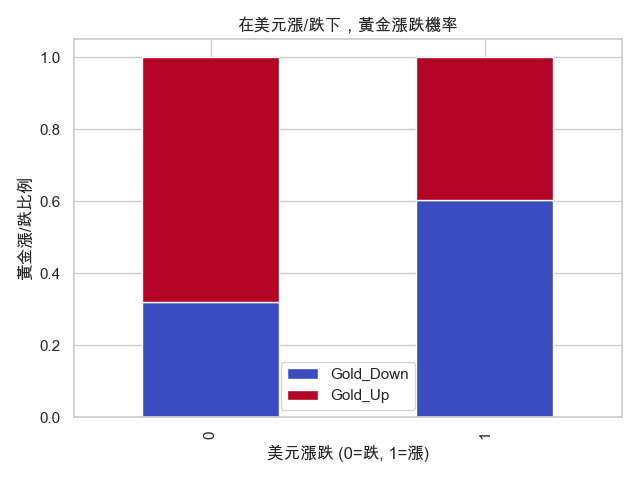
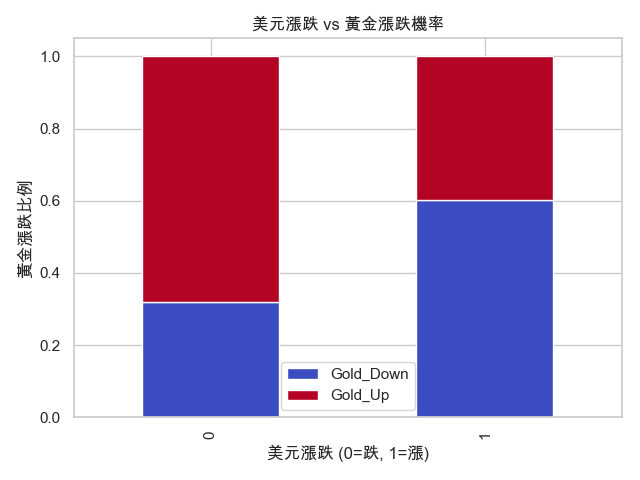
update

diff --git a/gold/gold_usd_twd_macd_analysis2.py b/gold/gold_usd_twd_macd_analysis2.py
@@ -1,0 +1,146 @@
+# gold_usd_twd_analysis.py
+# 2025/06/11 - 含 RSI & MACD 技術指標，Logistic & Random Forest 模型
+
+import yfinance as yf
+import pandas as pd
+import numpy as np
+import matplotlib.pyplot as plt
+import seaborn as sns
+import os
+import platform
+from sklearn.linear_model import LogisticRegression
+from sklearn.ensemble import RandomForestClassifier
+from sklearn.model_selection import train_test_split
+from sklearn.metrics import accuracy_score, classification_report
+
+sns.set(style="whitegrid")
+
+# ✅ 字體設定（支援跨平台中文）
+if platform.system() == 'Darwin':
+    plt.rcParams['font.family'] = ['Arial Unicode MS']
+elif platform.system() == 'Windows':
+    plt.rcParams['font.family'] = ['Microsoft JhengHei']
+else:
+    plt.rcParams['font.family'] = ['Noto Sans CJK TC']
+
+plt.rcParams['axes.unicode_minus'] = False
+
+# ✅ Step 1: 下載資料
+print("✅ Step 1: 資料下載")
+gold = yf.download("GC=F", start="2018-01-01", end="2024-12-31")
+dxy = yf.download("UUP", start="2018-01-01", end="2024-12-31")
+usd_twd = pd.read_csv("./gold/usd_twd.csv", parse_dates=["Date"])
+usd_twd.set_index("Date", inplace=True)
+
+if gold.empty or dxy.empty:
+    raise Exception("❌ 金價或美元 ETF（UUP）資料下載失敗")
+
+# ✅ Step 2: 合併資料
+print("✅ Step 2: 整合數據")
+df = pd.DataFrame({
+    "Gold": gold["Close"].squeeze(),
+    "DXY": dxy["Close"].squeeze(),
+    "USD_TWD": usd_twd["USD_TWD"].squeeze()
+}).dropna()
+
+# ✅ Step 3: 計算報酬率
+returns = df.pct_change().dropna()
+
+# ✅ Step 4: 加入技術指標 RSI
+print("✅ Step 4: RSI 指標計算")
+delta = df["Gold"].diff()
+gain = (delta.where(delta > 0, 0)).rolling(14).mean()
+loss = (-delta.where(delta < 0, 0)).rolling(14).mean()
+rs = gain / loss
+df["RSI"] = 100 - (100 / (1 + rs))
+
+# ✅ Step 5: 加入技術指標 MACD
+print("✅ Step 5: MACD 指標計算")
+ema12 = df["Gold"].ewm(span=12, adjust=False).mean()
+ema26 = df["Gold"].ewm(span=26, adjust=False).mean()
+df["MACD"] = ema12 - ema26
+df["MACD_signal"] = df["MACD"].ewm(span=9, adjust=False).mean()
+
+# ✅ Step 6: 散佈圖
+plt.figure(figsize=(8,6))
+sns.regplot(x=returns["DXY"], y=returns["Gold"], line_kws={"color":"red"})
+plt.title("黃金報酬 vs 美元 ETF 報酬")
+plt.xlabel("美元報酬率")
+plt.ylabel("黃金報酬率")
+plt.tight_layout()
+plt.savefig("./gold/scatter_gold_dxy.png")
+plt.close()
+
+# ✅ Step 7: 熱力圖
+corr_matrix = returns.corr()
+plt.figure(figsize=(6,5))
+sns.heatmap(corr_matrix, annot=True, cmap="coolwarm", fmt=".2f")
+plt.title("報酬率相關係數熱力圖")
+plt.tight_layout()
+plt.savefig("./gold/correlation_heatmap.png")
+plt.close()
+
+# ✅ Step 8: 漲跌交叉表
+bin_returns = returns.copy()
+bin_returns["Gold"] = (returns["Gold"] > 0).astype(int)
+bin_returns["DXY"] = (returns["DXY"] > 0).astype(int)
+crosstab = pd.crosstab(bin_returns["DXY"], bin_returns["Gold"], normalize='index')
+crosstab.columns = ["Gold_Down", "Gold_Up"]
+print("\n美元上/下漲對黃金漲跌影響：")
+print(crosstab)
+
+crosstab.plot(kind="bar", stacked=True, colormap="coolwarm")
+plt.title("美元漲跌 vs 黃金漲跌機率")
+plt.xlabel("美元漲跌 (0=跌, 1=漲)")
+plt.ylabel("黃金漲跌比例")
+plt.tight_layout()
+plt.savefig("./gold/gold_usd_crosstab.png")
+plt.close()
+print("✅ Step 8.2 視覺化交叉表完成")
+
+# ✅ Step 9: 建立預測模型資料
+print("✅ Step 9: 準備預測模型資料")
+df["Return"] = df["Gold"].pct_change()
+df["Gold_Up_Tomorrow"] = (df["Return"].shift(-1) > 0).astype(int)
+
+df_model = df.dropna(subset=["RSI", "MACD", "MACD_signal", "Gold_Up_Tomorrow"])
+
+features = ["DXY", "USD_TWD", "RSI", "MACD", "MACD_signal"]
+X = df_model[features]
+y = df_model["Gold_Up_Tomorrow"]
+
+X_train, X_test, y_train, y_test = train_test_split(X, y, test_size=0.2, random_state=42)
+
+# ✅ Step 10: Logistic Regression
+print("✅ Step 10: Logistic Regression 預測")
+log_model = LogisticRegression(max_iter=200)
+log_model.fit(X_train, y_train)
+y_pred_log = log_model.predict(X_test)
+
+print("\n🎯 Logistic Regression 預測結果")
+print("準確率：", accuracy_score(y_test, y_pred_log))
+print(classification_report(y_test, y_pred_log))
+
+coef_df = pd.DataFrame({
+    'Feature': features,
+    'Coefficient': log_model.coef_[0]
+})
+print("\n邏輯回歸模型係數：")
+print(coef_df)
+
+# ✅ Step 11: Random Forest
+print("✅ Step 11: Random Forest 預測")
+rf_model = RandomForestClassifier(n_estimators=100, random_state=42)
+rf_model.fit(X_train, y_train)
+y_pred_rf = rf_model.predict(X_test)
+
+print("\n🌲 Random Forest 預測結果：")
+print("準確率：", accuracy_score(y_test, y_pred_rf))
+print(classification_report(y_test, y_pred_rf))
+
+feature_importance = pd.DataFrame({
+    'Feature': features,
+    'Importance': rf_model.feature_importances_
+}).sort_values(by='Importance', ascending=False)
+print("\n隨機森林特徵重要性：")
+print(feature_importance)
